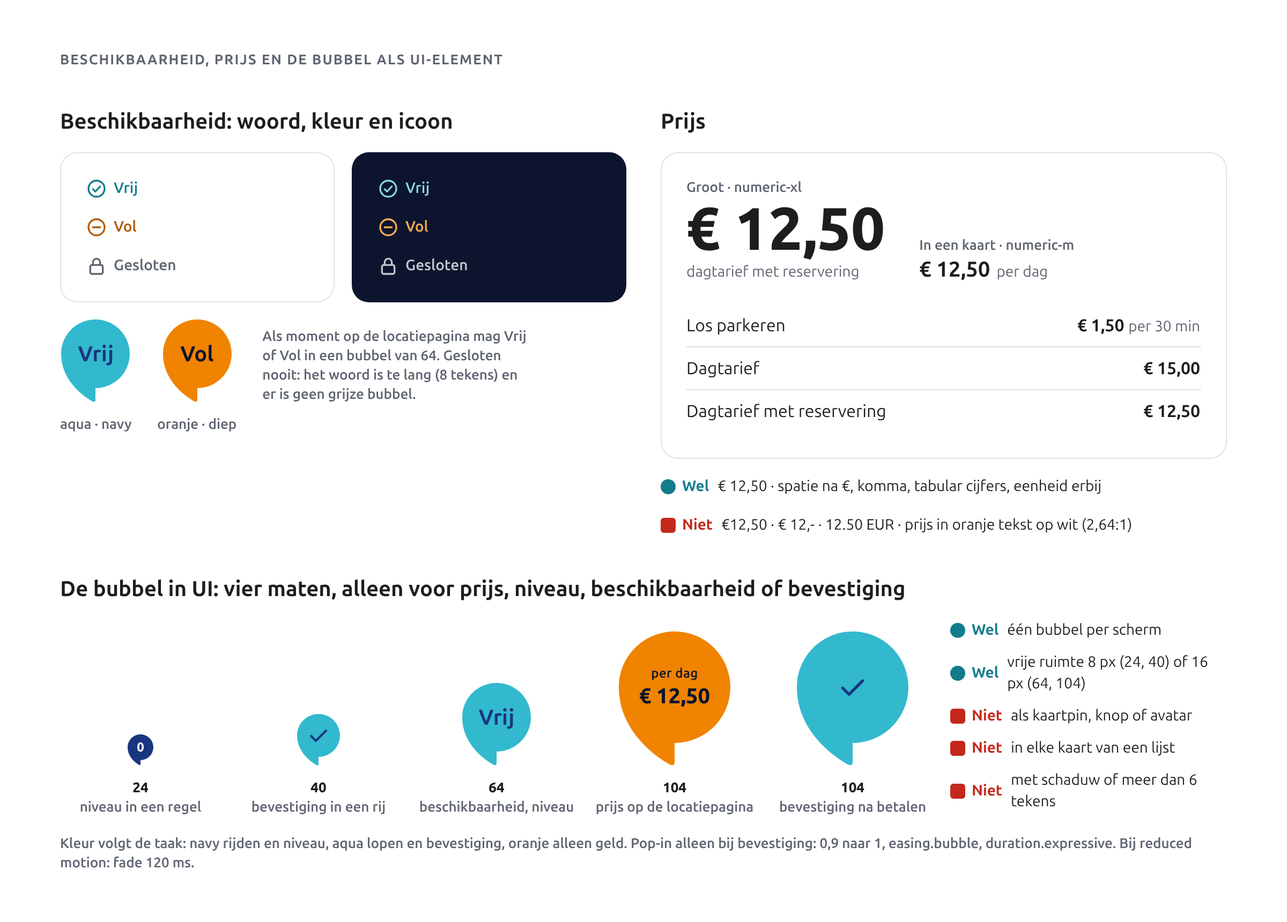
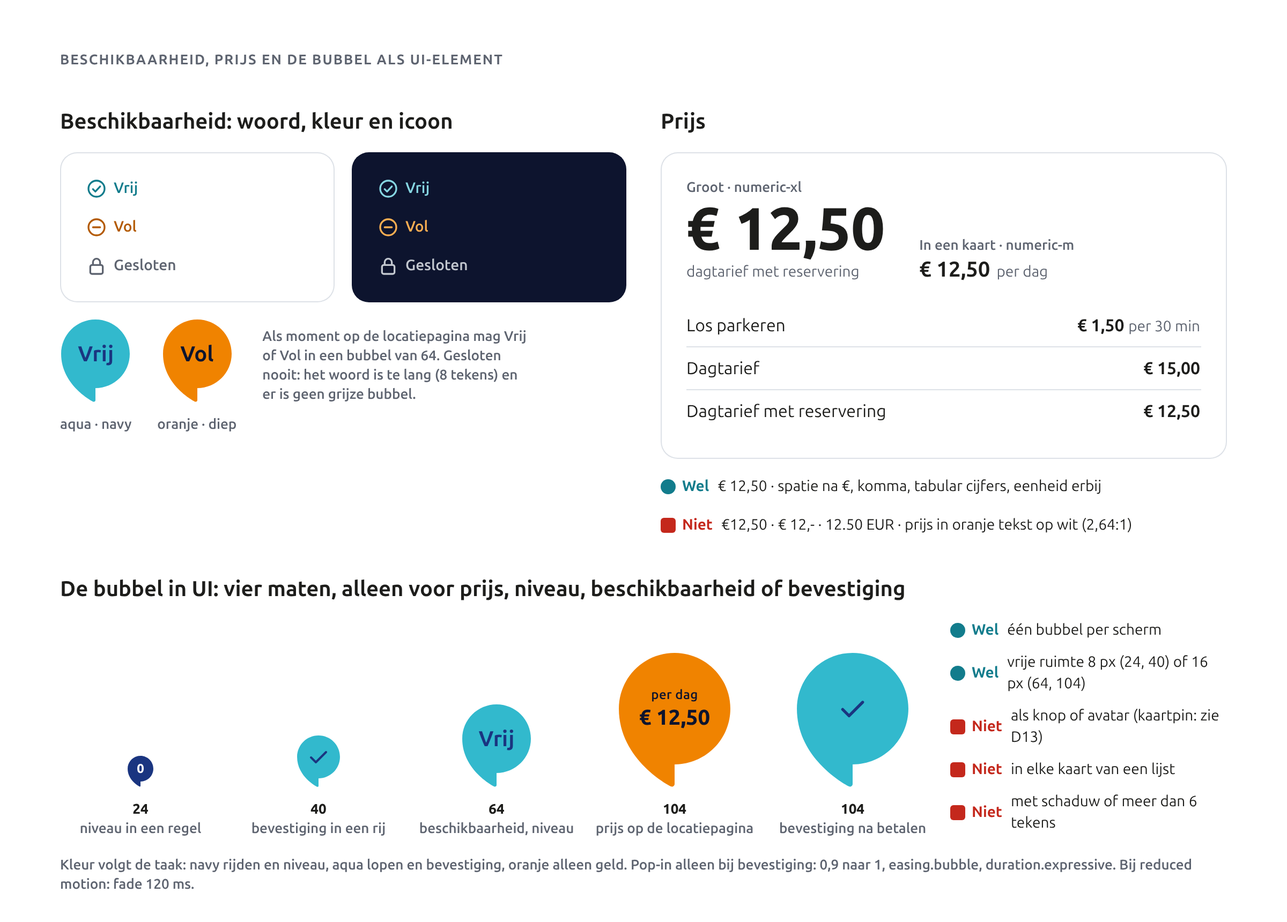
Brand refresh 2027, Phase 2: QA fixes before Gate 2
- 09-ui: alerts with full 1 px outline (D10), toast timing (D12), map pin rule (D13), component values read approved tokens
- chapters: proposed values marked as approved with their decision numbers
- core-spec.md: decisions D26 and D27 (photography)

Claude-Session: https://claude.ai/code/session_01A5zCZPhhdyTXntSMSAxsZz

diff --git a/brand-2027/02-build/10-stationery/figures/invoice-quote.html b/brand-2027/02-build/10-stationery/figures/invoice-quote.html
@@ -1,0 +1,37 @@
+<!doctype html>
+<html lang="nl">
+<head>
+<meta charset="utf-8">
+<title>Factuur en offerte</title>
+<link rel="stylesheet" href="../../kit/kit.css">
+<style>
+  text { font-family: 'Ubuntu Sans'; font-variant-numeric: tabular-nums; }
+  .lab { position: absolute; font: 700 15px/20px var(--py-font-sans); color: #1A3580; }
+  .lab span { font-weight: 400; color: var(--py-text-muted); }
+  .col { position: absolute; width: 340px; font: 400 14px/20px var(--py-font-sans); color: var(--py-text-default); }
+  .col b { font-weight: 700; }
+  .col .h { font: 700 12px/16px var(--py-font-sans); letter-spacing: 0.08em; text-transform: uppercase; color: var(--py-text-muted); margin-bottom: 6px; }
+</style>
+</head>
+<body>
+<div class="fig fig--subtle" style="width: 1200px; height: 1010px">
+  <div class="eyebrow" style="position: absolute; left: 60px; top: 34px">Factuur en offerte · A4 · zelfde raster als het briefpapier</div>
+  <div class="lab" style="left: 60px; top: 66px">Factuur <span>voorbeeldbedragen uit de tarieven Hofplein en Maashaven</span></div>
+  <div class="lab" style="left: 620px; top: 66px">Offerte <span>met akkoordvak</span></div>
+  <svg style="position: absolute; left: 60px; top: 94px" width="520" height="735.4" viewBox="0 0 210 297"><rect width="210" height="297" fill="#FFFFFF" stroke="#C2C7CF" stroke-width="0.3"/><image href="../../kit/assets/logo-horizontal-color.svg" x="21" y="21" height="15.75" width="57.05"/><text x="189" y="33" font-size="11.29" font-weight="700" fill="#1A3580" text-anchor="end">Factuur</text><text x="21" y="56.0" font-size="3.53" font-weight="400" fill="#1D1D1B" text-anchor="start">[Naam klant]</text><text x="21" y="60.94" font-size="3.53" font-weight="400" fill="#1D1D1B" text-anchor="start">[Bedrijf]</text><text x="21" y="65.88" font-size="3.53" font-weight="400" fill="#1D1D1B" text-anchor="start">[Straat en huisnummer]</text><text x="21" y="70.82" font-size="3.53" font-weight="400" fill="#1D1D1B" text-anchor="start">[Postcode en plaats]</text><text x="120.5" y="56.0" font-size="2.82" font-weight="600" fill="#1A3580" text-anchor="start">Factuurnummer</text><text x="189" y="56.0" font-size="3.53" font-weight="400" fill="#1D1D1B" text-anchor="end">[2027-0001]</text><text x="120.5" y="60.94" font-size="2.82" font-weight="600" fill="#1A3580" text-anchor="start">Factuurdatum</text><text x="189" y="60.94" font-size="3.53" font-weight="400" fill="#1D1D1B" text-anchor="end">[datum]</text><text x="120.5" y="65.88" font-size="2.82" font-weight="600" fill="#1A3580" text-anchor="start">Vervaldatum</text><text x="189" y="65.88" font-size="3.53" font-weight="400" fill="#1D1D1B" text-anchor="end">[datum]</text><text x="120.5" y="70.82" font-size="2.82" font-weight="600" fill="#1A3580" text-anchor="start">Klantnummer</text><text x="189" y="70.82" font-size="3.53" font-weight="400" fill="#1D1D1B" text-anchor="end">[nummer]</text><text x="21" y="105" font-size="2.82" font-weight="700" fill="#1A3580" text-anchor="start">Omschrijving</text><text x="130" y="105" font-size="2.82" font-weight="700" fill="#1A3580" text-anchor="end">Aantal</text><text x="158" y="105" font-size="2.82" font-weight="700" fill="#1A3580" text-anchor="end">Prijs</text><text x="189" y="105" font-size="2.82" font-weight="700" fill="#1A3580" text-anchor="end">Bedrag</text><rect x="21" y="107" width="168" height="0.18" fill="#1A3580"/><text x="21" y="114" font-size="3.53" font-weight="400" fill="#1D1D1B" text-anchor="start">Dagtarief Parking Hofplein</text><text x="130" y="114" font-size="3.53" font-weight="400" fill="#1D1D1B" text-anchor="end">20</text><text x="158" y="114" font-size="3.53" font-weight="400" fill="#1D1D1B" text-anchor="end">€ 7,50</text><text x="189" y="114" font-size="3.53" font-weight="400" fill="#1D1D1B" text-anchor="end">€ 150,00</text><rect x="21" y="116.2" width="168" height="0.09" fill="#C2C7CF"/><text x="21" y="121" font-size="3.53" font-weight="400" fill="#1D1D1B" text-anchor="start">Per 60 minuten, Parking Maashaven</text><text x="130" y="121" font-size="3.53" font-weight="400" fill="#1D1D1B" text-anchor="end">12</text><text x="158" y="121" font-size="3.53" font-weight="400" fill="#1D1D1B" text-anchor="end">€ 8,00</text><text x="189" y="121" font-size="3.53" font-weight="400" fill="#1D1D1B" text-anchor="end">€ 96,00</text><rect x="21" y="123.2" width="168" height="0.09" fill="#C2C7CF"/><text x="21" y="128" font-size="3.53" font-weight="400" fill="#1D1D1B" text-anchor="start">Verloren kaart, Parking Maashaven</text><text x="130" y="128" font-size="3.53" font-weight="400" fill="#1D1D1B" text-anchor="end">1</text><text x="158" y="128" font-size="3.53" font-weight="400" fill="#1D1D1B" text-anchor="end">€ 50,00</text><text x="189" y="128" font-size="3.53" font-weight="400" fill="#1D1D1B" text-anchor="end">€ 50,00</text><rect x="21" y="130.2" width="168" height="0.09" fill="#C2C7CF"/><text x="158" y="139" font-size="3.53" font-weight="400" fill="#1D1D1B" text-anchor="end">Totaal excl. btw</text><text x="189" y="139" font-size="3.53" font-weight="400" fill="#1D1D1B" text-anchor="end">€ 244,63</text><text x="158" y="144.5" font-size="3.53" font-weight="400" fill="#1D1D1B" text-anchor="end">Btw 21%</text><text x="189" y="144.5" font-size="3.53" font-weight="400" fill="#1D1D1B" text-anchor="end">€ 51,37</text><text x="158" y="150.0" font-size="3.53" font-weight="700" fill="#1A3580" text-anchor="end">Totaal</text><text x="189" y="150.0" font-size="5.29" font-weight="700" fill="#1A3580" text-anchor="end">€ 296,00</text><text x="21" y="165.0" font-size="3.53" font-weight="400" fill="#1D1D1B" text-anchor="start">Betaal <tspan font-weight="700">€ 296,00</tspan> binnen [14] dagen op [IBAN] t.n.v. ParkingYou B.V.</text><text x="21" y="169.94" font-size="3.53" font-weight="400" fill="#1D1D1B" text-anchor="start">Zet [factuurnummer] in de omschrijving. Vragen? Mail info@parkingyou.nl.</text><text x="21.0" y="268.2" font-size="2.82" font-weight="700" fill="#1A3580" text-anchor="start">ParkingYou B.V.</text><text x="21.0" y="272.08" font-size="2.82" font-weight="400" fill="#1A3580" text-anchor="start">Victoriapark 4</text><text x="21.0" y="275.96" font-size="2.82" font-weight="400" fill="#1A3580" text-anchor="start">5611 BM Eindhoven</text><text x="80.5" y="268.2" font-size="2.82" font-weight="400" fill="#1A3580" text-anchor="start">info@parkingyou.nl</text><text x="80.5" y="272.08" font-size="2.82" font-weight="400" fill="#1A3580" text-anchor="start">parkingyou.nl</text><text x="80.5" y="275.96" font-size="2.82" font-weight="400" fill="#1A3580" text-anchor="start">[telefoonnummer]</text><text x="140.0" y="268.2" font-size="2.82" font-weight="400" fill="#1A3580" text-anchor="start">KvK [nummer]</text><text x="140.0" y="272.08" font-size="2.82" font-weight="400" fill="#1A3580" text-anchor="start">btw [nummer]</text><text x="140.0" y="275.96" font-size="2.82" font-weight="400" fill="#1A3580" text-anchor="start">IBAN [nummer]</text></svg>
+  <svg style="position: absolute; left: 620px; top: 94px" width="520" height="735.4" viewBox="0 0 210 297"><rect width="210" height="297" fill="#FFFFFF" stroke="#C2C7CF" stroke-width="0.3"/><image href="../../kit/assets/logo-horizontal-color.svg" x="21" y="21" height="15.75" width="57.05"/><text x="189" y="33" font-size="11.29" font-weight="700" fill="#1A3580" text-anchor="end">Offerte</text><text x="21" y="56.0" font-size="3.53" font-weight="400" fill="#1D1D1B" text-anchor="start">[Naam klant]</text><text x="21" y="60.94" font-size="3.53" font-weight="400" fill="#1D1D1B" text-anchor="start">[Bedrijf]</text><text x="21" y="65.88" font-size="3.53" font-weight="400" fill="#1D1D1B" text-anchor="start">[Straat en huisnummer]</text><text x="21" y="70.82" font-size="3.53" font-weight="400" fill="#1D1D1B" text-anchor="start">[Postcode en plaats]</text><text x="120.5" y="56.0" font-size="2.82" font-weight="600" fill="#1A3580" text-anchor="start">Offertenummer</text><text x="189" y="56.0" font-size="3.53" font-weight="400" fill="#1D1D1B" text-anchor="end">[O-2027-0001]</text><text x="120.5" y="60.94" font-size="2.82" font-weight="600" fill="#1A3580" text-anchor="start">Datum</text><text x="189" y="60.94" font-size="3.53" font-weight="400" fill="#1D1D1B" text-anchor="end">[datum]</text><text x="120.5" y="65.88" font-size="2.82" font-weight="600" fill="#1A3580" text-anchor="start">Geldig tot</text><text x="189" y="65.88" font-size="3.53" font-weight="400" fill="#1D1D1B" text-anchor="end">[datum]</text><text x="120.5" y="70.82" font-size="2.82" font-weight="600" fill="#1A3580" text-anchor="start">Contact</text><text x="189" y="70.82" font-size="3.53" font-weight="400" fill="#1D1D1B" text-anchor="end">[naam]</text><text x="21" y="105" font-size="2.82" font-weight="700" fill="#1A3580" text-anchor="start">Omschrijving</text><text x="130" y="105" font-size="2.82" font-weight="700" fill="#1A3580" text-anchor="end">Aantal</text><text x="158" y="105" font-size="2.82" font-weight="700" fill="#1A3580" text-anchor="end">Prijs</text><text x="189" y="105" font-size="2.82" font-weight="700" fill="#1A3580" text-anchor="end">Bedrag</text><rect x="21" y="107" width="168" height="0.18" fill="#1A3580"/><text x="21" y="114" font-size="3.53" font-weight="400" fill="#1D1D1B" text-anchor="start">Abonnement Parking [locatie], 3 maanden</text><text x="130" y="114" font-size="3.53" font-weight="400" fill="#1D1D1B" text-anchor="end">[1]</text><text x="158" y="114" font-size="3.53" font-weight="400" fill="#1D1D1B" text-anchor="end">€ [0,00]</text><text x="189" y="114" font-size="3.53" font-weight="400" fill="#1D1D1B" text-anchor="end">€ [0,00]</text><rect x="21" y="116.2" width="168" height="0.09" fill="#C2C7CF"/><text x="21" y="121" font-size="3.53" font-weight="400" fill="#1D1D1B" text-anchor="start">ParkingPass, 25 parkeeracties</text><text x="130" y="121" font-size="3.53" font-weight="400" fill="#1D1D1B" text-anchor="end">[1]</text><text x="158" y="121" font-size="3.53" font-weight="400" fill="#1D1D1B" text-anchor="end">€ [0,00]</text><text x="189" y="121" font-size="3.53" font-weight="400" fill="#1D1D1B" text-anchor="end">€ [0,00]</text><rect x="21" y="123.2" width="168" height="0.09" fill="#C2C7CF"/><text x="21" y="128" font-size="3.53" font-weight="400" fill="#1D1D1B" text-anchor="start">Waardekaarten</text><text x="130" y="128" font-size="3.53" font-weight="400" fill="#1D1D1B" text-anchor="end">[10]</text><text x="158" y="128" font-size="3.53" font-weight="400" fill="#1D1D1B" text-anchor="end">€ [0,00]</text><text x="189" y="128" font-size="3.53" font-weight="400" fill="#1D1D1B" text-anchor="end">€ [0,00]</text><rect x="21" y="130.2" width="168" height="0.09" fill="#C2C7CF"/><text x="158" y="139" font-size="3.53" font-weight="400" fill="#1D1D1B" text-anchor="end">Totaal excl. btw</text><text x="189" y="139" font-size="3.53" font-weight="400" fill="#1D1D1B" text-anchor="end">€ [0,00]</text><text x="158" y="144.5" font-size="3.53" font-weight="400" fill="#1D1D1B" text-anchor="end">Btw 21%</text><text x="189" y="144.5" font-size="3.53" font-weight="400" fill="#1D1D1B" text-anchor="end">€ [0,00]</text><text x="158" y="150.0" font-size="3.53" font-weight="700" fill="#1A3580" text-anchor="end">Totaal</text><text x="189" y="150.0" font-size="5.29" font-weight="700" fill="#1A3580" text-anchor="end">€ [0,00]</text><text x="21" y="165.0" font-size="3.53" font-weight="400" fill="#1D1D1B" text-anchor="start">Deze offerte is geldig tot [datum]. Akkoord? Teken en stuur hem terug.</text><rect x="21.0" y="183.0" width="49" height="0.18" fill="#1D1D1B"/><text x="21.0" y="187.0" font-size="2.82" font-weight="600" fill="#1A3580" text-anchor="start">Naam</text><rect x="80.5" y="183.0" width="49" height="0.18" fill="#1D1D1B"/><text x="80.5" y="187.0" font-size="2.82" font-weight="600" fill="#1A3580" text-anchor="start">Datum</text><rect x="140.0" y="183.0" width="49" height="0.18" fill="#1D1D1B"/><text x="140.0" y="187.0" font-size="2.82" font-weight="600" fill="#1A3580" text-anchor="start">Handtekening</text><text x="21.0" y="268.2" font-size="2.82" font-weight="700" fill="#1A3580" text-anchor="start">ParkingYou B.V.</text><text x="21.0" y="272.08" font-size="2.82" font-weight="400" fill="#1A3580" text-anchor="start">Victoriapark 4</text><text x="21.0" y="275.96" font-size="2.82" font-weight="400" fill="#1A3580" text-anchor="start">5611 BM Eindhoven</text><text x="80.5" y="268.2" font-size="2.82" font-weight="400" fill="#1A3580" text-anchor="start">info@parkingyou.nl</text><text x="80.5" y="272.08" font-size="2.82" font-weight="400" fill="#1A3580" text-anchor="start">parkingyou.nl</text><text x="80.5" y="275.96" font-size="2.82" font-weight="400" fill="#1A3580" text-anchor="start">[telefoonnummer]</text><text x="140.0" y="268.2" font-size="2.82" font-weight="400" fill="#1A3580" text-anchor="start">KvK [nummer]</text><text x="140.0" y="272.08" font-size="2.82" font-weight="400" fill="#1A3580" text-anchor="start">btw [nummer]</text><text x="140.0" y="275.96" font-size="2.82" font-weight="400" fill="#1A3580" text-anchor="start">IBAN [nummer]</text></svg>
+  <div class="col" style="left: 60px; top: 860px">
+    <div class="h">Tabel</div>
+    Kopregel print-small 8 pt Bold PY-Blauw met een lijn van 0,5 pt in PY-Blauw. Regels print-body 10/14 pt met een haarlijn neutral.300. Bedragen rechts uitgelijnd, tabelcijfers, € met spatie en komma. Geen kleurvlakken, geen strepen om en om.
+  </div>
+  <div class="col" style="left: 430px; top: 860px">
+    <div class="h">Kop en totaal</div>
+    "Factuur" of "Offerte" print-h1 32 pt Bold PY-Blauw, rechts op de logolijn. Gegevens rechts in de kolom vanaf 4u: labels 8 pt SemiBold PY-Blauw, waarden 10 pt. Totaal print-h3 15 pt Bold PY-Blauw. Geen oranje: een factuur is geen knop.
+  </div>
+  <div class="col" style="left: 800px; top: 860px">
+    <div class="h">Bestanden</div>
+    Uit het boekhoudpakket als pdf op het lege briefpapier, of als sjabloon: py-invoice-a4.dotx, py-quote-a4.dotx (Arial in Office), py-invoice-a4.html voor het pakket. Papier: zie briefpapier.
+  </div>
+</div>
+</body>
+</html>

diff --git a/brand-2027/02-build/10-stationery/figures/letterhead-envelope.html b/brand-2027/02-build/10-stationery/figures/letterhead-envelope.html
@@ -1,0 +1,75 @@
+<!doctype html>
+<html lang="nl">
+<head>
+<meta charset="utf-8">
+<title>Briefpapier en envelop</title>
+<link rel="stylesheet" href="../../kit/kit.css">
+<script src="py-fig.js"></script>
+<style>
+  text { font-family: 'Ubuntu Sans'; font-variant-numeric: tabular-nums; }
+  .lab { position: absolute; font: 700 15px/20px var(--py-font-sans); color: #1A3580; }
+  .lab span { font-weight: 400; color: var(--py-text-muted); }
+  .col { position: absolute; width: 480px; font: 400 14px/20px var(--py-font-sans); color: var(--py-text-default); }
+  .col b { font-weight: 700; }
+  .col .h { font: 700 12px/16px var(--py-font-sans); letter-spacing: 0.08em; text-transform: uppercase; color: var(--py-text-muted); margin-bottom: 6px; }
+</style>
+</head>
+<body>
+<div class="fig fig--subtle" style="width: 1200px; height: 880px">
+  <div class="eyebrow" style="position: absolute; left: 60px; top: 34px">Briefpapier A4 en envelop 220 x 156 · ware verhouding</div>
+  <div class="lab" style="left: 60px; top: 66px">Briefpapier A4 <span>210 x 297 · u = 10,5 mm · marge 21 mm</span></div>
+  <svg style="position: absolute; left: 60px; top: 94px" width="525" height="742.5" viewBox="0 0 210 297">
+    <rect width="210" height="297" fill="#FFFFFF" stroke="#C2C7CF" stroke-width="0.3"/>
+    <g fill="#32B9CD" opacity="0.10">
+      <rect x="21" y="21" width="19.25" height="255"/><rect x="50.75" y="21" width="19.25" height="255"/><rect x="80.5" y="21" width="19.25" height="255"/><rect x="110.25" y="21" width="19.25" height="255"/><rect x="140" y="21" width="19.25" height="255"/><rect x="169.75" y="21" width="19.25" height="255"/>
+    </g>
+    <image href="../../kit/assets/logo-horizontal-color.svg" x="21" y="21" height="15.75" width="57.05"/>
+    <rect x="21" y="47.25" width="84" height="42" fill="none" stroke="#C4281C" stroke-width="0.25" stroke-dasharray="1.5 1"/>
+    <g font-size="3.53" fill="#1D1D1B">
+      <text x="21" y="56">[Naam ontvanger]</text><text x="21" y="60.94">[Bedrijf]</text><text x="21" y="65.88">[Straat en huisnummer]</text><text x="21" y="70.82">[Postcode en plaats]</text>
+    </g>
+    <g font-size="2.82">
+      <text x="21" y="105" font-weight="600" fill="#1A3580">Datum</text><text x="40" y="105" fill="#1D1D1B">[datum]</text>
+      <text x="80.5" y="105" font-weight="600" fill="#1A3580">Kenmerk</text><text x="99.5" y="105" fill="#1D1D1B">[kenmerk]</text>
+    </g>
+    <text x="21" y="126" font-size="5.29" font-weight="700" fill="#1A3580">[Onderwerp in één regel]</text>
+    <text x="21" y="138" font-size="3.53" fill="#1D1D1B">Beste [naam],</text>
+    <g fill="#DDE1E7">
+      <rect x="21" y="142.5" width="168" height="1.6"/><rect x="21" y="147.4" width="160" height="1.6"/><rect x="21" y="152.3" width="166" height="1.6"/><rect x="21" y="157.2" width="120" height="1.6"/>
+      <rect x="21" y="167" width="168" height="1.6"/><rect x="21" y="171.9" width="150" height="1.6"/><rect x="21" y="176.8" width="164" height="1.6"/><rect x="21" y="181.7" width="90" height="1.6"/>
+    </g>
+    <g font-size="3.53" fill="#1D1D1B"><text x="21" y="198">Met vriendelijke groet,</text><text x="21" y="219" font-weight="700">[Naam]</text><text x="21" y="223.94">[Functie]</text></g>
+    <path d="M0 148.5H5" stroke="#AEAEAE" stroke-width="0.25"/>
+    <g font-size="2.82" fill="#1A3580">
+      <text x="21" y="268.2" font-weight="700">ParkingYou B.V.</text><text x="21" y="272.08">Victoriapark 4</text><text x="21" y="275.96">5611 BM Eindhoven</text>
+      <text x="80.5" y="268.2">info@parkingyou.nl</text><text x="80.5" y="272.08">parkingyou.nl</text><text x="80.5" y="275.96">[telefoonnummer]</text>
+      <text x="140" y="268.2">KvK [nummer]</text><text x="140" y="272.08">btw [nummer]</text><text x="140" y="275.96">IBAN [nummer]</text>
+    </g>
+    <rect x="21" y="21" width="168" height="255" fill="none" stroke="#C4281C" stroke-width="0.2" stroke-dasharray="1 0.8" opacity="0.6"/>
+  </svg>
+  <div class="measure-label" style="left: 330px; top: 214px">adresvak 84 x 42 op 4,5u</div>
+  <div class="measure-label" style="left: 6px; top: 458px">vouw</div>
+
+  <div class="lab" style="left: 640px; top: 66px">Envelop 220 x 156 <span>bestaand formaat · u = 7,8 mm</span></div>
+  <svg style="position: absolute; left: 640px; top: 94px" width="500" height="354.5" viewBox="0 0 220 156">
+    <rect width="220" height="156" fill="#FFFFFF" stroke="#C2C7CF" stroke-width="0.3"/>
+    <image href="../../kit/assets/logo-horizontal-color.svg" x="15.6" y="15.6" height="15.6" width="56.5"/>
+    <text x="15.6" y="42.9" font-size="2.82" fill="#1A3580">ParkingYou B.V. · Victoriapark 4 · 5611 BM Eindhoven</text>
+    <rect x="171.6" y="15.6" width="32.8" height="23.4" fill="none" stroke="#AEAEAE" stroke-width="0.25" stroke-dasharray="1.5 1"/>
+    <text x="188" y="29" text-anchor="middle" font-size="2.47" fill="#767B86">[port]</text>
+    <rect x="101.4" y="78" width="93.6" height="46.8" fill="none" stroke="#C4281C" stroke-width="0.25" stroke-dasharray="1.5 1"/>
+    <text x="105" y="88" font-size="3.53" fill="#767B86">[adres ontvanger of etiket]</text>
+    <rect x="15.6" y="15.6" width="188.8" height="124.8" fill="none" stroke="#C4281C" stroke-width="0.2" stroke-dasharray="1 0.8" opacity="0.6"/>
+  </svg>
+
+  <div class="col" style="left: 640px; top: 480px">
+    <div class="h">Briefpapier</div>
+    Logo in kleur, beeldmerk 15,75 mm (1,5u). Adresvak op 4,5u van boven, 8u breed: past in een venster als we ooit een vensterenvelop kiezen. Onderwerp print-h3 15 pt Bold PY-Blauw, tekst print-body 10/14 pt, gegevens in de voet print-small 8/11 pt in drie kolommen van twee rasterkolommen. Vouwteken op 148,5 mm: de brief gaat één keer gevouwen in de envelop van 220 x 156.
+    <div class="h" style="margin-top: 14px">Envelop</div>
+    Logo in kleur, beeldmerk 2u = 15,6 mm, afzender op één regel eronder. Geen bubbel, geen navy vlak: de envelop is wit en rustig.
+    <div class="h" style="margin-top: 14px">Papier en bestand</div>
+    Ongestreken houtvrij 100 tot 120 g/m², laserbestendig, FOGRA52, 2/0 of 4/0 CMYK. Bestanden: py-letterhead-a4.dotx (Word, Arial), py-letterhead-a4.indd, py-envelope-220x156.pdf.
+  </div>
+</div>
+</body>
+</html>

diff --git a/brand-2027/02-build/10-stationery/figures/email-signature.html b/brand-2027/02-build/10-stationery/figures/email-signature.html
@@ -1,0 +1,77 @@
+<!doctype html>
+<html lang="nl">
+<head>
+<meta charset="utf-8">
+<title>E-mailhandtekening</title>
+<link rel="stylesheet" href="../../kit/kit.css">
+<style>
+  .client { position: absolute; width: 640px; border-radius: 8px; padding: 28px 20px; font-family: Arial, sans-serif; }
+  .sig td { font-family: Arial, sans-serif; font-size: 14px; line-height: 20px; padding: 0; vertical-align: top; }
+  .lab { position: absolute; font: 700 15px/20px var(--py-font-sans); color: #1A3580; }
+  .lab span { font-weight: 400; color: var(--py-text-muted); }
+  pre { position: absolute; margin: 0; font: 400 11.5px/16px ui-monospace, Menlo, Consolas, monospace; color: #1D1D1B; background: #FFFFFF; border: 1px solid #DDE1E7; border-radius: 8px; padding: 14px 16px; white-space: pre; }
+  .col { position: absolute; width: 470px; font: 400 14px/20px var(--py-font-sans); color: var(--py-text-default); }
+  .col b { font-weight: 700; }
+  .col .h { font: 700 12px/16px var(--py-font-sans); letter-spacing: 0.08em; text-transform: uppercase; color: var(--py-text-muted); margin-bottom: 6px; }
+</style>
+</head>
+<body>
+<div class="fig fig--subtle" style="width: 1200px; height: 770px">
+  <div class="eyebrow" style="position: absolute; left: 50px; top: 34px">E-mailhandtekening · max 600 px · Arial · logo als afbeelding</div>
+
+  <div class="lab" style="left: 50px; top: 66px">Licht <span>zoals de meeste ontvangers het zien</span></div>
+  <div class="client" style="left: 50px; top: 94px; background: #FFFFFF; border: 1px solid #DDE1E7">
+    <div style="font-size: 14px; line-height: 20px; color: #1D1D1B">Met vriendelijke groet,</div>
+    <table class="sig" cellpadding="0" cellspacing="0" style="margin-top: 16px; width: 600px; border-collapse: collapse">
+      <tr><td style="font-weight: 700; color: #1A3580">[Voornaam Achternaam]</td></tr>
+      <tr><td style="color: #1D1D1B">[Functie]</td></tr>
+      <tr><td style="padding-top: 16px"><img src="../../kit/assets/logo-horizontal-color.svg" style="height: 32px; display: block" alt="parkingyou"></td></tr>
+      <tr><td style="padding-top: 12px; color: #1D1D1B">[telefoonnummer] · <span style="color: #1A3580; text-decoration: underline">[voornaam]@parkingyou.nl</span> · <span style="color: #1A3580; font-weight: 700; text-decoration: underline">parkingyou.nl</span></td></tr>
+      <tr><td style="padding-top: 4px; font-size: 12px; line-height: 16px; color: #5E6470">ParkingYou B.V. · Victoriapark 4 · 5611 BM Eindhoven</td></tr>
+    </table>
+  </div>
+
+  <div class="lab" style="left: 50px; top: 368px">Donkere modus <span>logo-PNG met eigen witte vlak blijft leesbaar</span></div>
+  <div class="client" style="left: 50px; top: 396px; background: #2B2F36; border: 1px solid #434852">
+    <div style="font-size: 14px; line-height: 20px; color: #EEF0F3">Met vriendelijke groet,</div>
+    <table class="sig" cellpadding="0" cellspacing="0" style="margin-top: 16px; width: 600px; border-collapse: collapse">
+      <tr><td style="font-weight: 700; color: #9AAAD6">[Voornaam Achternaam]</td></tr>
+      <tr><td style="color: #EEF0F3">[Functie]</td></tr>
+      <tr><td style="padding-top: 16px"><div style="display: inline-block; background: #FFFFFF; padding: 8px 12px; border-radius: 4px"><img src="../../kit/assets/logo-horizontal-color.svg" style="height: 32px; display: block" alt="parkingyou"></div></td></tr>
+      <tr><td style="padding-top: 12px; color: #EEF0F3">[telefoonnummer] · <span style="color: #9AAAD6; text-decoration: underline">[voornaam]@parkingyou.nl</span> · <span style="color: #9AAAD6; font-weight: 700; text-decoration: underline">parkingyou.nl</span></td></tr>
+      <tr><td style="padding-top: 4px; font-size: 12px; line-height: 16px; color: #C2C7CF">ParkingYou B.V. · Victoriapark 4 · 5611 BM Eindhoven</td></tr>
+    </table>
+  </div>
+  <div class="note" style="position: absolute; left: 50px; top: 690px; width: 640px">De mailclient kiest zelf de donkere kleuren; je ontwerpt alleen de lichte versie. Daarom staat het logo als PNG met een wit vlak van 8 x 12 px rondom, en nooit als transparante PNG.</div>
+
+  <pre style="left: 730px; top: 94px; width: 420px">&lt;table cellpadding="0" cellspacing="0"
+  style="max-width:600px;font-family:Arial,
+  sans-serif;font-size:14px;line-height:20px;
+  color:#1D1D1B"&gt;
+ &lt;tr&gt;&lt;td style="font-weight:bold;
+   color:#1A3580"&gt;[Voornaam Achternaam]&lt;/td&gt;&lt;/tr&gt;
+ &lt;tr&gt;&lt;td&gt;[Functie]&lt;/td&gt;&lt;/tr&gt;
+ &lt;tr&gt;&lt;td style="padding-top:16px"&gt;
+  &lt;img src="https://[cdn]/py-logo-mail@2x.png"
+   width="140" height="48" alt="parkingyou"
+   style="display:block;border:0"&gt;&lt;/td&gt;&lt;/tr&gt;
+ &lt;tr&gt;&lt;td style="padding-top:12px"&gt;
+  [telefoonnummer] ·
+  &lt;a href="mailto:[voornaam]@parkingyou.nl"
+   style="color:#1A3580"&gt;[voornaam]@parkingyou.nl&lt;/a&gt;
+  · &lt;a href="https://parkingyou.nl"
+   style="color:#1A3580;font-weight:bold"&gt;
+   parkingyou.nl&lt;/a&gt;&lt;/td&gt;&lt;/tr&gt;
+ &lt;tr&gt;&lt;td style="padding-top:4px;font-size:12px;
+   line-height:16px;color:#5E6470"&gt;
+  ParkingYou B.V. · Victoriapark 4 ·
+  5611 BM Eindhoven&lt;/td&gt;&lt;/tr&gt;
+&lt;/table&gt;</pre>
+
+  <div class="col" style="left: 730px; top: 560px; width: 420px">
+    <div class="h">Regels</div>
+    Arial 14/20 px, naam Bold PY-Blauw, links PY-Blauw onderstreept, adres 12/16 px neutral.600. Logo: PNG op 2x (280 x 96 px, getoond als 140 x 48 px), beeldmerk 32 px. Geen banners, geen citaten, geen sociale iconen. Eén handtekening voor iedereen. Bestand: py-email-signature.html plus py-logo-mail@2x.png.
+  </div>
+</div>
+</body>
+</html>

diff --git a/brand-2027/02-build/09-ui/figures/ui.css b/brand-2027/02-build/09-ui/figures/ui.css
@@ -1,31 +1,21 @@
 /* ParkingYou 2027, chapter 09 UI/UX: component styles for the figures.
    Components read semantic tokens only (var(--py-surface-*), --py-text-*, --py-action-* ...).
-   Values marked PROPOSAL are listed in chapter.md "Voorgestelde waarden" and wait for CD approval. */
+   Component values were approved in core-spec D4 to D14. */
 
+/* Component values approved in core-spec D4, D5, D7 (now in tokens.css as --py-size-*, --py-type-label-l and semantic tokens).
+   The short aliases below keep the figure CSS readable. */
 :root, [data-theme="dark"] {
-  /* PROPOSAL component values */
-  --pyx-control-h: 48px;          /* button and input height */
-  --pyx-control-h-lg: 56px;       /* main button at the bottom of a phone screen, licence plate field */
-  --pyx-focus-w: 3px;             /* focus ring width */
-  --pyx-focus-offset: 2px;        /* gap between component and ring */
-  --pyx-border-w: 1px;            /* input border at rest */
-  --pyx-border-w-strong: 2px;     /* hover, focus, error */
-  --pyx-topbar-h: 56px;
-  --pyx-topbar-h-desktop: 72px;
-  --pyx-bottombar-h: 64px;
-  --pyx-chip-h: 36px;             /* visual height; hit area stays 44 */
-  --pyx-type-label-l: 600 16px/24px var(--py-font-sans); /* button label */
-}
-:root {
-  /* PROPOSAL semantic tokens missing from tokens.json */
-  --py-action-secondary-bg-pressed: var(--py-color-blue-800);
-  --py-surface-code: var(--py-color-neutral-0);
-  --py-text-on-code: var(--py-color-blue-900);
-}
-[data-theme="dark"] {
-  --py-action-secondary-bg-pressed: var(--py-color-aqua-600);
-  --py-surface-code: var(--py-color-neutral-0);
-  --py-text-on-code: var(--py-color-blue-900);
+  --pyx-control-h: var(--py-size-button-height);
+  --pyx-control-h-lg: var(--py-size-button-height-large);
+  --pyx-focus-w: var(--py-size-focus-ring-width);
+  --pyx-focus-offset: var(--py-size-focus-ring-offset);
+  --pyx-border-w: var(--py-size-border-width);
+  --pyx-border-w-strong: var(--py-size-border-width-strong);
+  --pyx-topbar-h: var(--py-size-topbar-height-phone);
+  --pyx-topbar-h-desktop: var(--py-size-topbar-height-desktop);
+  --pyx-bottombar-h: var(--py-size-bottombar-height);
+  --pyx-chip-h: var(--py-size-chip-height);
+  --pyx-type-label-l: var(--py-type-label-l);
 }
 
 .ic { flex: none; display: block; }
@@ -119,7 +109,7 @@
 
 /* ---------- Alerts and feedback ---------- */
 .alert { display: flex; gap: var(--py-space-3); padding: var(--py-space-4); border-radius: var(--py-radius-m); background: var(--py-surface-subtle);
-  color: var(--py-text-default); font: var(--py-type-body-s); box-shadow: inset 4px 0 0 var(--alert-c); }
+  color: var(--py-text-default); font: var(--py-type-body-s); box-shadow: inset 0 0 0 1px var(--alert-c); } /* D10: full 1 px outline, no side bar */
 .alert > .ic { color: var(--alert-c); }
 .alert b { display: block; font: var(--py-type-label-m); margin-bottom: 2px; }
 .alert--error { --alert-c: var(--py-feedback-error); background: var(--py-feedback-error-bg); }

diff --git a/brand-2027/02-build/09-ui/figures/feedback-chips.html b/brand-2027/02-build/09-ui/figures/feedback-chips.html
@@ -20,13 +20,13 @@
       <div class="alert alert--warning"><i data-i="warning"></i><div><b>Doorrijhoogte 2,00 m</b><p>Is je auto hoger, met dakkoffer of een bus? Dan past hij hier niet.</p></div></div>
       <div class="alert alert--success" role="status"><i data-i="check-circle"></i><div><b>Kenteken bewaard</b><p>De volgende keer hoef je het niet meer te typen.</p></div></div>
       <div class="alert alert--info"><i data-i="info"></i><div><b>Je kenteken is je ticket</b><p>De camera bij de slagboom leest je kenteken. De slagboom gaat vanzelf open.</p></div></div>
-      <div class="cap">Tekst altijd in text.default. De kleur zit in het icoon en de rand links (feedback.*). Fout krijgt feedback.error-bg. Een fout die je zelf kunt oplossen staat bij het veld, niet bovenaan.</div>
+      <div class="cap">Tekst altijd in text.default. De kleur zit in het icoon en de rand van 1 px (feedback.*). Fout krijgt feedback.error-bg. Een fout die je zelf kunt oplossen staat bij het veld, niet bovenaan.</div>
     </div>
     <div class="col" style="gap: 28px">
       <div class="col" style="gap: 12px">
         <div class="t-heading-s">Toast</div>
         <div class="toast" role="status" style="align-self: flex-start"><i data-i="check" data-s="20"></i>Ticket staat in je agenda</div>
-        <div class="cap">surface.inverse · 4 tot 6 seconden · nooit voor een fout</div>
+        <div class="cap">surface.inverse · minimaal 6 seconden · nooit voor een fout</div>
       </div>
       <div class="col" style="gap: 12px">
         <div class="t-heading-s">Lege staat</div>

diff --git a/brand-2027/02-build/09-ui/figures/availability-price.html b/brand-2027/02-build/09-ui/figures/availability-price.html
@@ -73,7 +73,7 @@
       <div class="col" style="gap: 10px; padding-bottom: 4px">
         <div class="rule"><span class="do">Wel</span><span>één bubbel per scherm</span></div>
         <div class="rule"><span class="do">Wel</span><span>vrije ruimte 8 px (24, 40) of 16 px (64, 104)</span></div>
-        <div class="rule"><span class="dont">Niet</span><span>als kaartpin, knop of avatar</span></div>
+        <div class="rule"><span class="dont">Niet</span><span>als knop of avatar (kaartpin: zie D13)</span></div>
         <div class="rule"><span class="dont">Niet</span><span>in elke kaart van een lijst</span></div>
         <div class="rule"><span class="dont">Niet</span><span>met schaduw of meer dan 6 tekens</span></div>
       </div>

diff --git a/brand-2027/02-build/10-stationery/figures/key-business-card.html b/brand-2027/02-build/10-stationery/figures/key-business-card.html
@@ -14,7 +14,7 @@
 </style>
 </head>
 <body>
-<div class="fig fig--subtle" style="width: 1200px; height: 860px">
+<div class="fig fig--subtle" style="width: 1200px; height: 780px">
   <div class="eyebrow" style="position: absolute; left: 60px; top: 34px">Visitekaartje · 85 x 55 mm · u = 2,75 mm · marge 2u · 12 kolommen</div>
   <div class="lab" style="left: 60px; top: 68px">Voorzijde</div>
   <div class="lab" style="left: 630px; top: 68px">Achterzijde</div>

diff --git a/brand-2027/02-build/09-ui/chapter.md b/brand-2027/02-build/09-ui/chapter.md
@@ -1,13 +1,13 @@
 # 09 UI/UX
 
-Dit hoofdstuk zegt hoe ParkingYou eruitziet en werkt op een scherm: de website, de boekflow en de PWA met je ticket. Alles komt uit de core spec en `tokens.json`. Waar een component een maat nodig heeft die daar niet in staat, staat die onderaan onder Voorgestelde waarden. Die waarden zijn nog niet goedgekeurd.
+Dit hoofdstuk zegt hoe ParkingYou eruitziet en werkt op een scherm: de website, de boekflow en de PWA met je ticket. Alles komt uit de core spec en `tokens.json`. De componentmaten staan in de core spec (besluiten D4 tot en met D14) en in het tokenbestand.
 
 ## Principes voor schermen
 
 1. **Eén hoofdknop per scherm.** Er is altijd één ding dat je hier het liefst doet. Dat is de hoofdknop. De rest is tweede keus of een link.
 2. **Oranje is boeken en betalen.** De hoofdknop in de boek- en betaalroute is oranje met PY-Diep tekst: zoeken, reserveren, betalen. Staat er op een scherm niets te boeken of te betalen, dan is navy de hoofdknop (ticket bekijken, route plannen). Oranje zie je verder alleen bij een prijs.
 3. **Navy is de tweede keus.** Navy met witte tekst is de secundaire knop. De link (onderstreept, `text.link`) is voor alles wat minder belangrijk is.
-4. **De bubbel alleen op een moment dat telt.** Een prijs, een niveau, beschikbaarheid of een bevestiging. Eén bubbel per scherm. Nooit als knop, kaartpin, avatar of in elke kaart van een lijst.
+4. **De bubbel alleen op een moment dat telt.** Een prijs, een niveau, beschikbaarheid of een bevestiging. Eén bubbel per scherm. Nooit als knop, avatar of in elke kaart van een lijst. Op een kaart is de kleine navy bubbel van 24 px wel de pin, met een witte P of prijs erin; daar telt de regel van één bubbel niet.
 5. **Kleur nooit alleen.** Vrij, Vol en Gesloten staan altijd als woord, met kleur en een icoon erbij. Een fout staat in woorden onder het veld.
 6. **Rustig en vlak.** Wit en `surface.subtle` als ondergrond, kaarten met radius 16, schaduw alleen op kaarten en vaste balken, nooit op de bubbel of het logo.
 
@@ -109,7 +109,7 @@ Kleur volgt de taak: navy rijden en niveau, aqua lopen en bevestiging, oranje al
 
 ![Meldingen, toast, lege staat, filterchips en labels](figures/feedback-chips.png)
 
-Meldingen: tekst in `text.default`, kleur in het icoon en een rand links. Fout krijgt `feedback.error-bg`. Een fout die je zelf oplost staat bij het veld. Een toast (`surface.inverse`) is voor een bevestiging, nooit voor een fout. Een lege staat zegt wat hier komt, wat je kunt doen, en heeft één knop. Filterchips zijn knoppen met `aria-pressed`; labels zijn geen knoppen.
+Meldingen: tekst in `text.default`, kleur in het icoon en een rand van 1 px rondom. Fout krijgt `feedback.error-bg`. Een fout die je zelf oplost staat bij het veld. Een toast (`surface.inverse`) is voor een bevestiging, nooit voor een fout. Een lege staat zegt wat hier komt, wat je kunt doen, en heeft één knop. Filterchips zijn knoppen met `aria-pressed`; labels zijn geen knoppen.
 
 ### Navigatie
 
@@ -169,7 +169,6 @@ Prijzen als "€ 12,50", tijden als "10:00 tot 18:00", datums als "za 14 nov 202
 ## Open punten
 
 - Adres van Parking Philips Stadion, live beschikbaarheid en servicekosten zijn nog onbekend en staan als [placeholder].
-- Een kaart met locaties: de bubbel mag geen pin zijn (één per scherm). Welke pin dan? Voorstel: een ronde marker zonder merkvorm, uit te werken met B3.
 - In donkere modus zijn `surface.subtle` en `surface.raised` allebei blue.800. Een gekozen staat in `subtle` op een kaart verdwijnt. Wij stappen dan terug naar `surface.default`; de generator kan dit beter oplossen met een eigen token.
 - Welke schermen van Aeroparker kunnen we stylen, en ondersteunt de PWA een ticket zonder bereik?
 
@@ -180,7 +179,7 @@ Prijzen als "€ 12,50", tijden als "10:00 tot 18:00", datums als "za 14 nov 202
 | Eén oranje hoofdknop per scherm, in de boek- en betaalroute | Twee oranje knoppen, of oranje voor "Inloggen" of navigatie |
 | Navy als hoofdknop op een scherm zonder boeken of betalen | Een navy knop op een navy vlak |
 | Status als woord, kleur en icoon | Een gekleurde stip zonder woord |
-| Eén bubbel per scherm, voor prijs, niveau, beschikbaarheid of bevestiging | De bubbel als pin, knop, avatar of in elke kaart |
+| Eén bubbel per scherm, voor prijs, niveau, beschikbaarheid of bevestiging | De bubbel als knop, avatar of in elke kaart (de kaartpin is de enige uitzondering) |
 | Label boven het veld, fout eronder in woorden | Alleen een rode rand, of een placeholder als label |
 | Componenten lezen semantische tokens | Hexwaarden of primitieven in een component |
 | Raakvlak 44 x 44 | Icoonknoppen of chips kleiner dan 44 |
@@ -188,6 +187,8 @@ Prijzen als "€ 12,50", tijden als "10:00 tot 18:00", datums als "za 14 nov 202
 | QR-code donker op wit, ook in donkere modus | QR-code in aqua of op navy |
 
 ## Voorgestelde waarden
+
+Goedgekeurd in de core spec als besluiten D4 tot en met D14; de waarden staan nu in het tokenbestand. De tabel blijft als uitleg.
 
 Deze waarden staan niet in de core spec. Ze zijn in de figuren gebruikt om het te kunnen laten zien, en wachten op goedkeuring van de creative director.
 
@@ -202,13 +203,13 @@ Deze waarden staan niet in de core spec. Ze zijn in de figuren gebruikt om het t
 | Onderbalk PWA | 64 px plus veilige zone | Tab 44 hoog met icoon plus woord. |
 | Chip | 36 px zichtbaar, raakvlak 44 | Rustiger in een rij; doelgrootte blijft 44. |
 | Label (tag) | 28 px | Geen knop, dus kleiner mag. |
-| Melding | rand links 4 px | Kleur zonder gekleurde tekst. |
+| Melding | rand 1 px rondom (besluit D10) | Kleur zonder gekleurde tekst. |
 | Voortgangsbalk | 4 px, `radius.pill` | Dun, de tekst "Stap 2 van 3" draagt de informatie. |
 | Kentekenveld | NL-band 36 px breed, spatiëring 0,08 em | Herkenbaar als kenteken zonder de gele plaat na te maken. |
 | Foto-verhouding | 3:2, kaartfoto 96 x 96 | Onze eigen foto's zijn 3:2; één verhouding voor alle locaties. |
 | Cijfer in bubbel 24 | 12 px, 800 | `label-s` is 600; de core spec vraagt 800 voor cijfers in de bubbel. |
 | Prijs in bubbel 104 | 20/26, 800 | `numeric-m` is 700; zelfde reden. |
-| Toastduur | 4 tot 6 s | Lang genoeg om te lezen, kort genoeg om niet in de weg te zitten. |
+| Toastduur | minimaal 6 s; met een actie sluit hij niet vanzelf (besluit D12) | Lang genoeg om te lezen (WCAG 2.2.1). |
 | `action.secondary-bg-pressed` | licht blue.800 (14,73:1 met wit), donker aqua.600 (5,43:1 met PY-Diep) | Ontbreekt in `tokens.json`; nodig voor de ingedrukte staat. |
 | `surface.code`, `text.on-code` | neutral.0 en blue.900 in beide modi | De QR-code moet in elke modus donker op wit staan. |
 | Componentlaag | `button.primary.bg` → `action.primary-bg`, `button.secondary.bg` → `action.secondary-bg`, `input.border` → `border.strong`, `input.bg` en `card.bg` → `surface.raised`, `status.free.fg` → `status.free`, `focus.ring.color` → `focus.ring` | Derde laag in de generator, zodat code en Figma dezelfde namen gebruiken. |

diff --git a/brand-2027/02-build/core-spec.md b/brand-2027/02-build/core-spec.md
@@ -274,6 +274,9 @@ Bilingual signage: Dutch first, English below at the same size, regular weight, 
 | D24 | 2026-11-07 | B2 | PY-Diep text on orange in print below 12 pt is set in K 100 (6.39:1) | PY-Diep is outside the FOGRA39 gamut; four-colour small text registers badly |
 | D25 | 2026-11-07 | B2 | Bilingual signs: both lines with line height equal to the font size, 0.5u clear space between the two line boxes; condensed width never on screen | Makes "0.5u" measurable |
 
+| D26 | 2026-11-07 | B4 | Photography craft values: focal length 24 to 35 mm for places, 50 mm for people and details; f/8 places, f/2.8 to f/4 people; camera height 1.2 m in driving lanes; white balance daylight 5200 to 5600 K, at most 200 K cooler in post; ratios 3:2, 16:9, 1:1, 4:5, 9:16; calm area for text at least one third of the frame; export JPEG sRGB 3000 px long side, print 300 ppi at final size; alt text under 125 characters; licence plates always unrecognisable | Makes section 9 shootable and checkable |
+| D27 | 2026-11-07 | B4 | Photo bubble in a desktop header may be 240 px wide (photo only, no text, still the one bubble) | At 104 px a place detail is not recognisable on desktop |
+
 Open for the sample-board test: orange powder coat RAL 2003 (dE 7.5) or RAL 1037 (dE 5.4); Pantone 3597 C or 287 C for PY-Blauw; all translucent colours on a lit panel by day and night.
 
 Pending Rick (Gate 2): drop the tagline lockup "The other way of parking" (B1 recommends: English, fails contrast in colour, unreadable at logo size).

diff --git a/brand-2027/02-build/02-kleur/chapter.md b/brand-2027/02-build/02-kleur/chapter.md
@@ -124,6 +124,8 @@ Druk in CMYK (FOGRA39 gestreken of FOGRA52 ongestreken) met 3 mm afloop. Drukwer
 
 ## Voorgestelde waarden
 
+Goedgekeurd door de creative director: zie besluiten D23 tot en met D25 in de core spec. Waar de core spec iets anders zegt, geldt de core spec.
+
 Dit zijn voorstellen van B2. De creative director beslist. Tot dan worden ze niet in finals gebruikt.
 
 **Methode.** ΔE is CIEDE2000, zelf berekend. Voor RAL en folie: merkkleur van sRGB naar CIELab D65 en vergeleken met de gepubliceerde Lab- of sRGB-waarde. Voor Pantone: merkkleur naar CIELab D50 (Bradford) en vergeleken met de Lab-waarden uit de PANTONE+ Solid Coated en Uncoated V3 kleurboeken (X-Rite 2014). Waar de nieuwere Pantone-waarden ook te vinden waren (colorxs.com) staat de tweede ΔE erbij. Een ΔE uit schermdata vervangt nooit een fysiek staal: elke keuze wordt gecontroleerd met de Pantone-waaiers, de RAL K7 en de folie-stalen.

diff --git a/brand-2027/02-build/01-logo/chapter.md b/brand-2027/02-build/01-logo/chapter.md
@@ -114,6 +114,8 @@ Bestaand drukwerk mag op. Wil Rick hem houden, dan als losse regel in de layout,
 
 ## Voorgestelde waarden
 
+Goedgekeurd door de creative director: zie besluiten D1 en D2 in de core spec. Waar de core spec iets anders zegt, geldt de core spec.
+
 Niet gebruiken in definitief werk tot de creative director akkoord geeft. De figuren laten het voorstel zien.
 
 | Waarde | Voorstel | Reden |

diff --git a/brand-2027/02-build/08-fotografie/chapter.md b/brand-2027/02-build/08-fotografie/chapter.md
@@ -255,7 +255,8 @@ sunset colours, HDR look, illustration.
 
 ## Voorgestelde waarden
 
-Deze waarden staan niet in de kernspecificatie. Ze gelden pas na akkoord van de creative director.
+Goedgekeurd door de creative director: zie besluiten D26 en D27 in de core spec. Waar de core spec iets anders zegt, geldt de core spec.
+
 
 | Waarde | Voorstel | Reden |
 |---|---|---|
